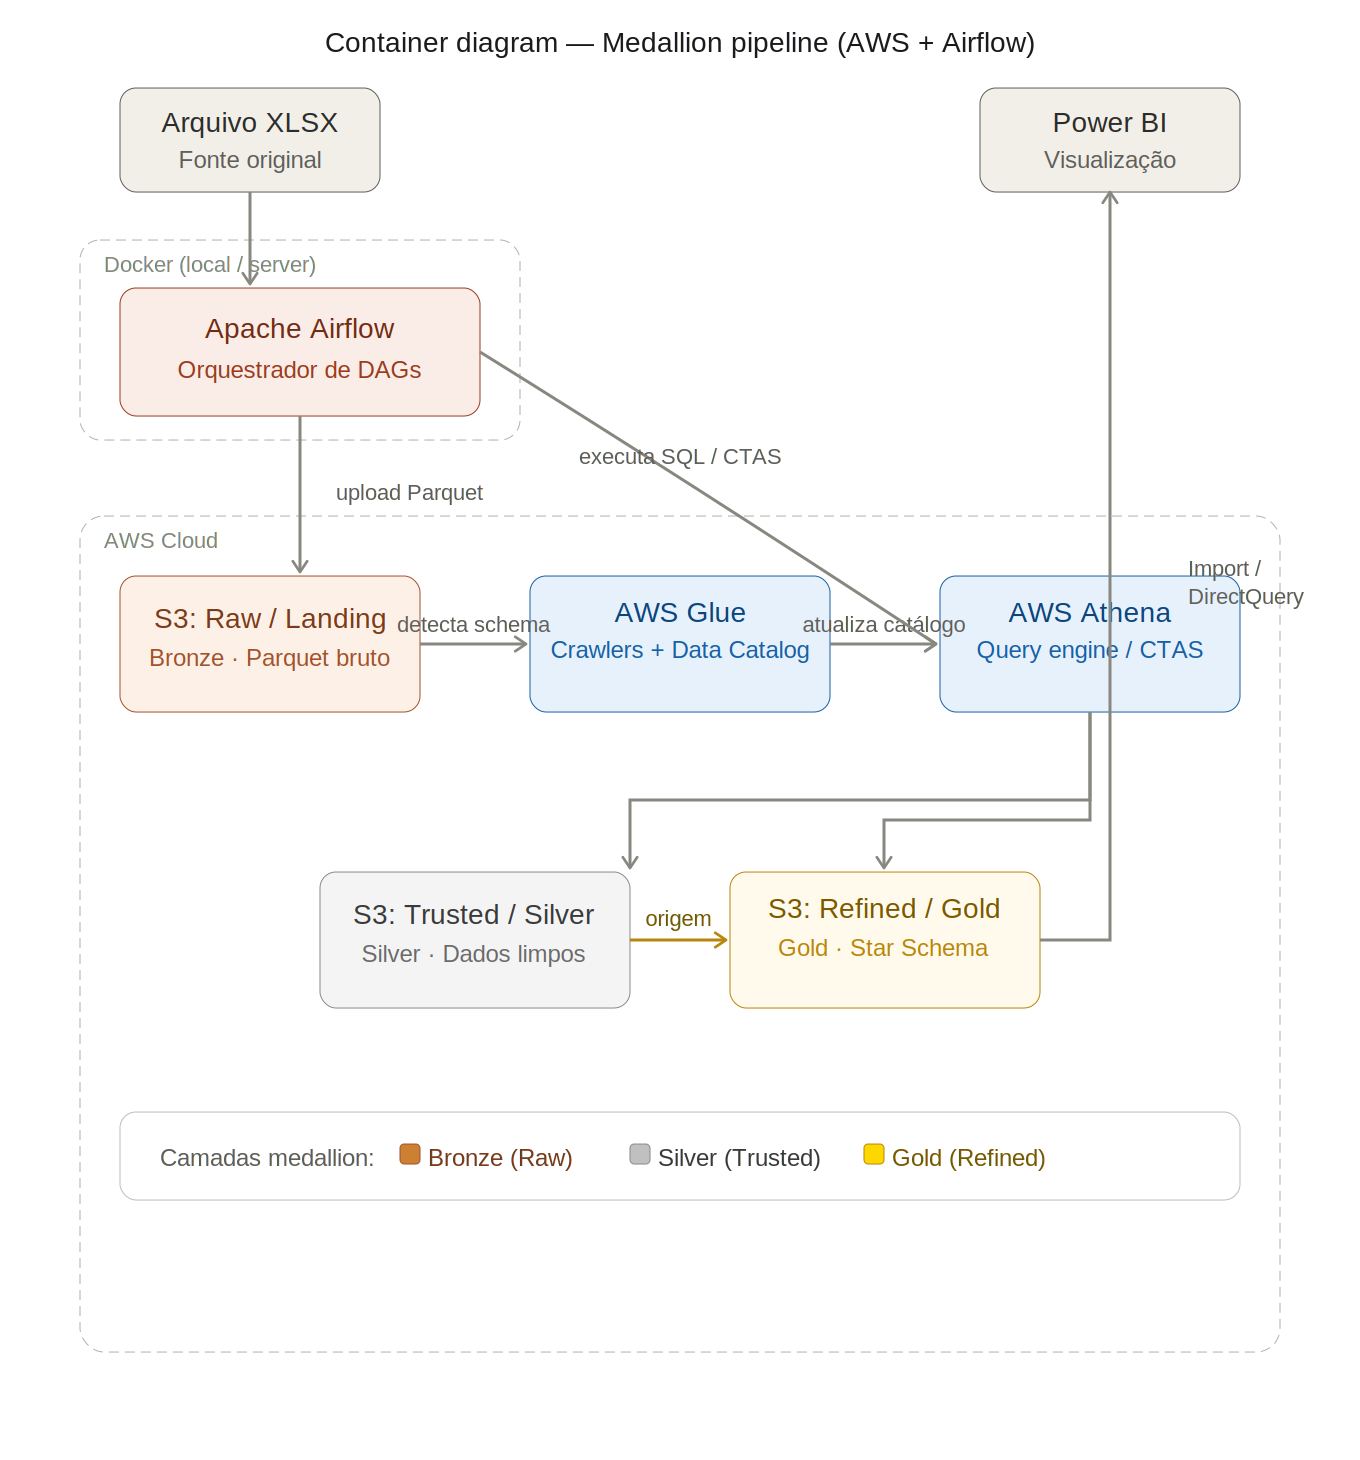
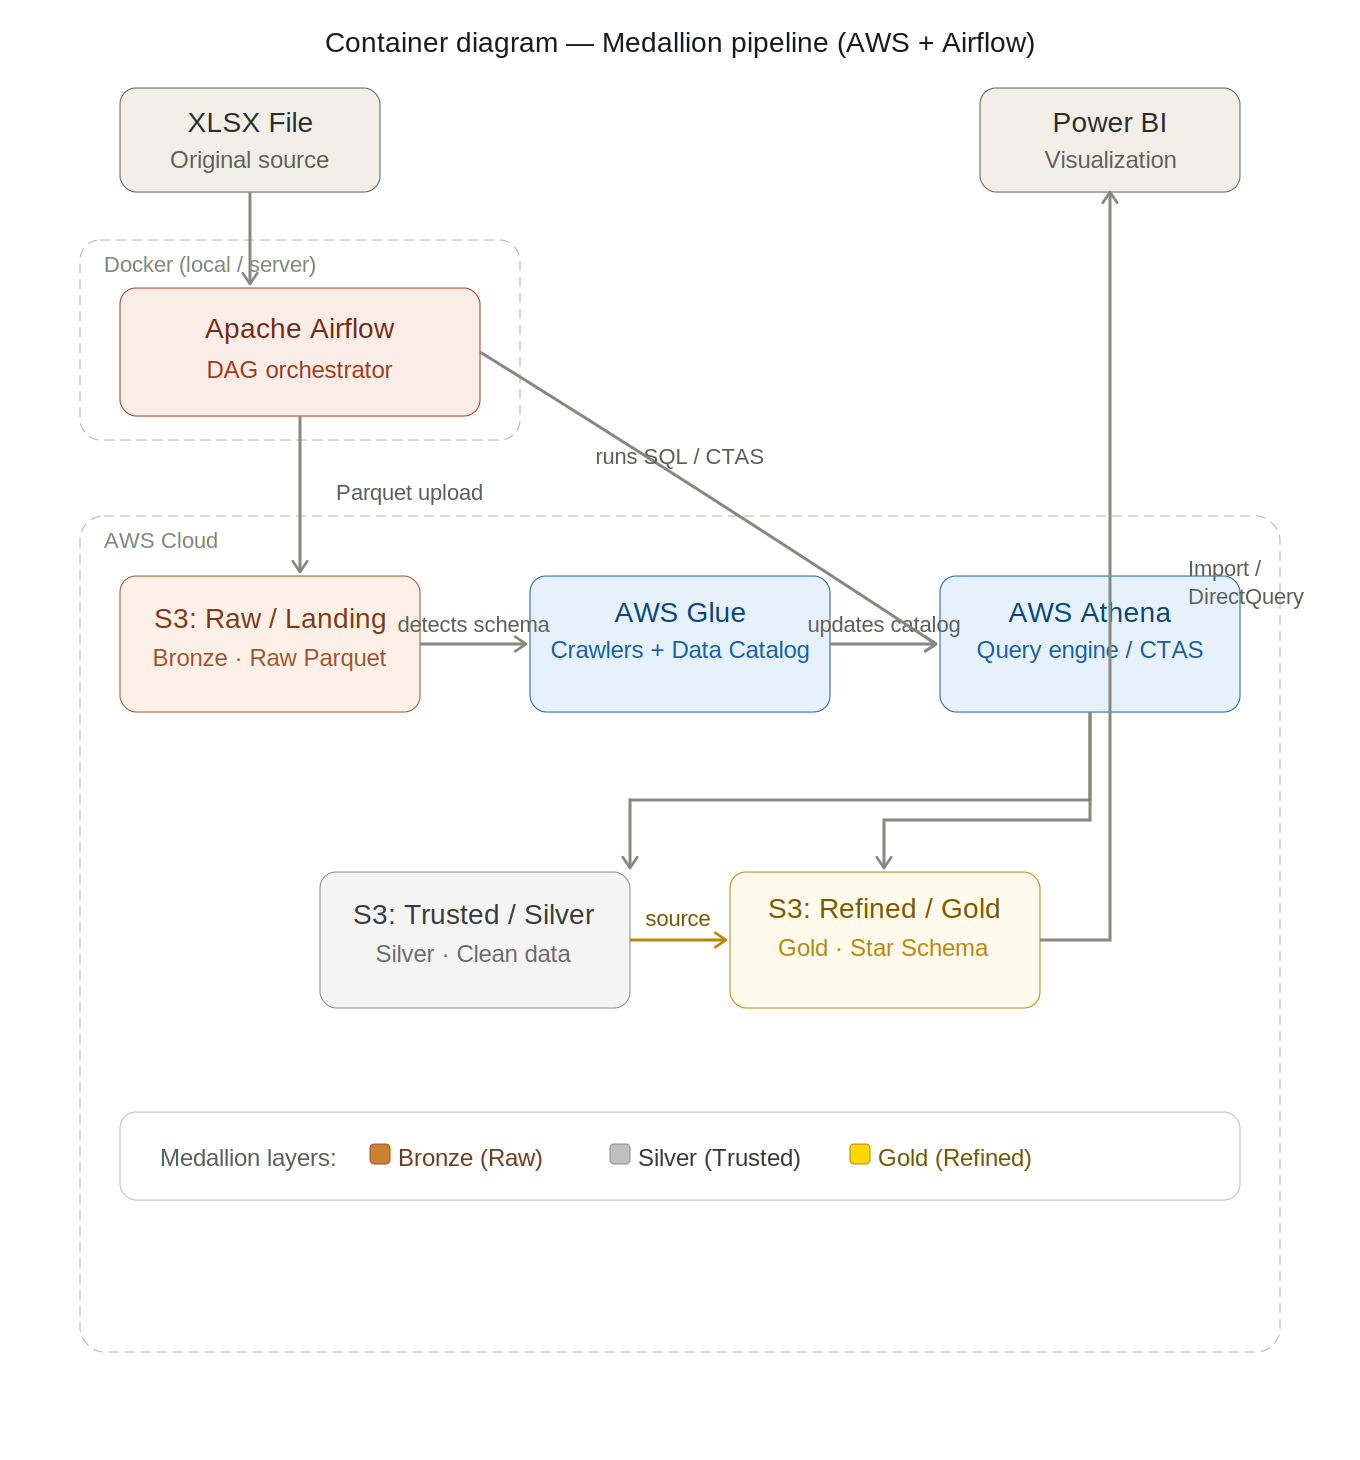
feature:pibx file and documentation

diff --git a/README.md b/README.md
@@ -40,3 +40,25 @@ The project was structured into three main layers using S3:
   - `dim_shipping` (Shipping)
   - And 1 analytical metrics table: `fact_orders` (Orders and Returns Fact Table).
 - **Business Keys:** Logical implementation of keys (Surrogate Keys and Natural Keys) to guarantee and enforce proper referential integrity between tables.
+
+## Business Insights & Recommendations
+
+Based on the dashboard analysis, several key insights were identified:
+
+- **Furniture Profit Margin Analysis:**
+  - **Insight:** The Furniture product category exhibits a significantly lower profit margin compared to other categories.
+  - **Recommendation:** Conduct a deep-dive analysis into the cost structure of the Furniture category, focusing on logistics, supply chain, and production costs. The goal is to identify the root causes of the margin erosion and implement strategies to increase profitability.
+  
+  ![Furniture Profit Margin](./img/furniture_profit_margin.png)
+
+- **Loss-Making Products Breakdown:**
+  - **Insight:** Among the top 10 products with the highest overall losses, 4 belong to the Technology category.
+  - **Recommendation:** Re-evaluate the pricing strategy, supplier contracts, and discount policies for these specific Technology products. Investigate whether they serve as loss leaders or if they should be discontinued or optimized to mitigate further financial impact.
+  
+  ![Loss-Making Products](./img/loss-making.png)
+
+- **Monthly Sales Trends (2020–2023):**
+  - **Insight:** Data from 2020 to 2023 indicates a strong upward trend in sales during the second half of the year, with comparatively weaker performance in the first semester.
+  - **Recommendation:** Intensify marketing efforts, commercial campaigns, and targeted promotions during the first half of the year to stimulate demand, pull results up, and balance revenue distribution throughout the year.
+
+  ![Monthly Sales Trends](./img/montly_trend.png)

diff --git a/CHANGELOG.md b/CHANGELOG.md
@@ -2,6 +2,14 @@ Changelog
 
 All notable changes to this project will be documented in this file.
 
+[1.03.1] - 2026-06-11
+
+Added
+- Add dags/dag_orchestrate_superstore.py 
+
+Changed
+- Add concated region name in vr trusted view for region column
+
 [1.02.1] - 2026-06-11
 
 Added